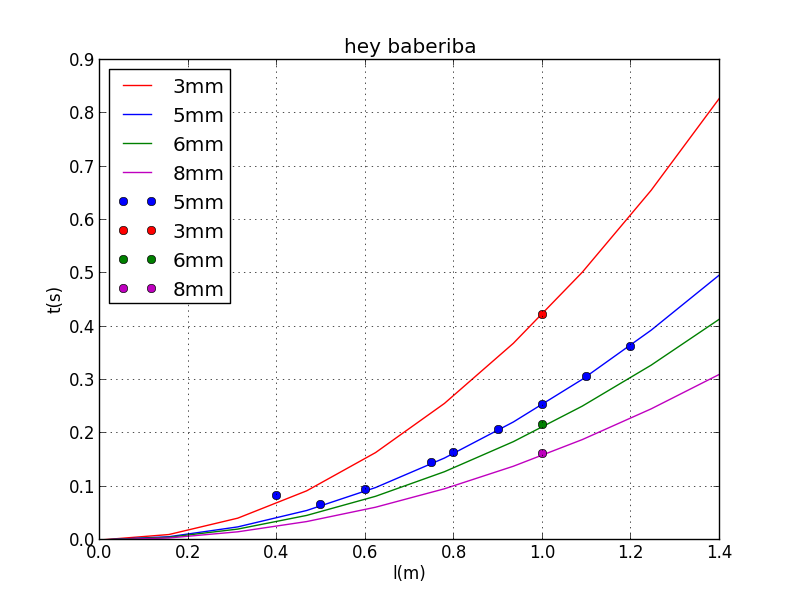
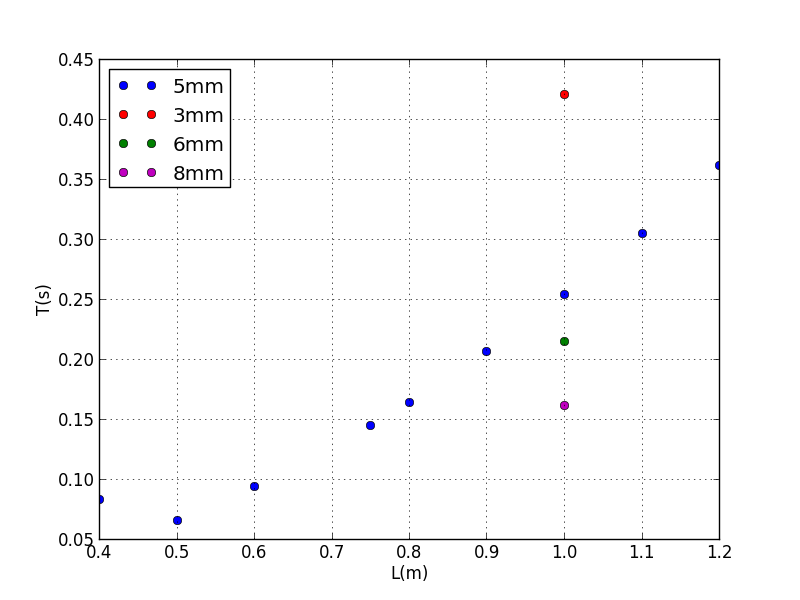
dojo but why not

diff --git a/labplot.py b/labplot.py
@@ -1,5 +1,5 @@
-from numpy import *
-from pylab import *
+import numpy as np
+import pylab as pl
 
 
 def length(x, h):
@@ -7,33 +7,36 @@ def length(x, h):
     return (a / h) * x ** 2
 
 
-x = linspace(0, 1.4, 10)  # list of x-values
+x = np.linspace(0, 1.4, 10)  # list of x-values
 y1 = length(x, 3)  # list of y-values of grade 1
 y2 = length(x, 5)  # list of y-values of grade 1
 y3 = length(x, 6)  # list of y-values of grade 1
 y4 = length(x, 8)  # list of y-values of grade 1
 
 # plot Graphs
-plot(x, y1, 'r-', label="3mm")
-plot(x, y2, 'b-', label="5mm")
-plot(x, y3, 'g-', label="6mm")
-plot(x, y4, 'm-', label="8mm")
+pl.figure()
+pl.plot(x, y1, 'r-', label="3mm")
+pl.plot(x, y2, 'b-', label="5mm")
+pl.plot(x, y3, 'g-', label="6mm")
+pl.plot(x, y4, 'm-', label="8mm")
+pl.savefig("./plot2.png")
+pl.close()
 
 # plot Points Length
-plot([0.4, 0.5, 0.6, 0.75, 0.8, 0.9, 1, 1.1, 1.2],
-     [0.083, 0.066, 0.094, 0.145, 0.164, 0.207, 0.254, 0.305, 0.362],
-     'bo',
-     label="5mm")
+pl.figure()
+pl.plot([0.4, 0.5, 0.6, 0.75, 0.8, 0.9, 1, 1.1, 1.2],
+        [0.083, 0.066, 0.094, 0.145, 0.164, 0.207, 0.254, 0.305, 0.362],
+        'bo',
+        label="5mm")
 
 # Thickness
-plot(1, 0.421, 'ro', label="3mm")
-plot(1, 0.215, 'go', label="6mm")
-plot(1, 0.162, 'mo', label="8mm")
+pl.plot(1, 0.421, 'ro', label="3mm")
+pl.plot(1, 0.215, 'go', label="6mm")
+pl.plot(1, 0.162, 'mo', label="8mm")
 
-xlabel("L(m)")
-ylabel("T(s)")
-legend(loc='upper left')
-grid(True)
-
-title("Svängningstid")
-savefig("./plot.png")
+pl.xlabel("L(m)")
+pl.ylabel("T(s)")
+pl.legend(loc='upper left')
+pl.grid(True)
+pl.savefig("plot.png")
+pl.close()
